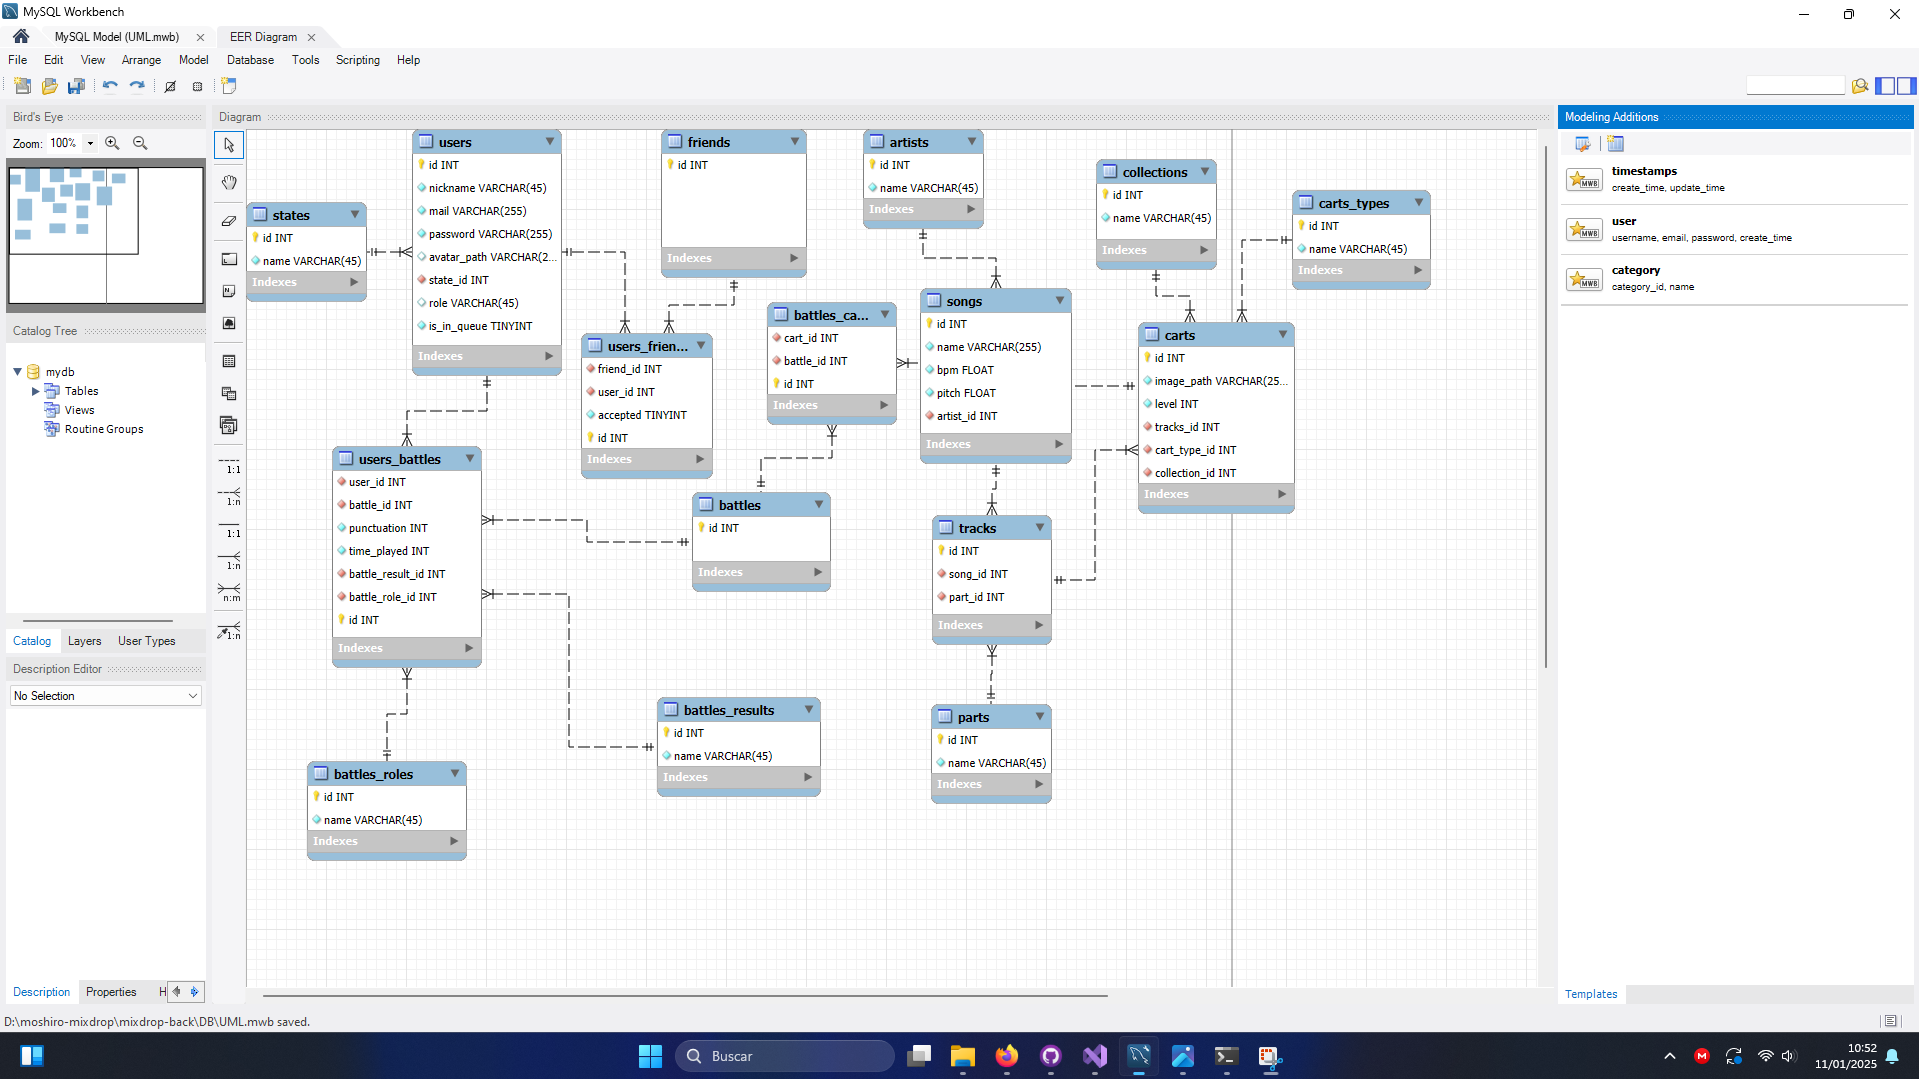
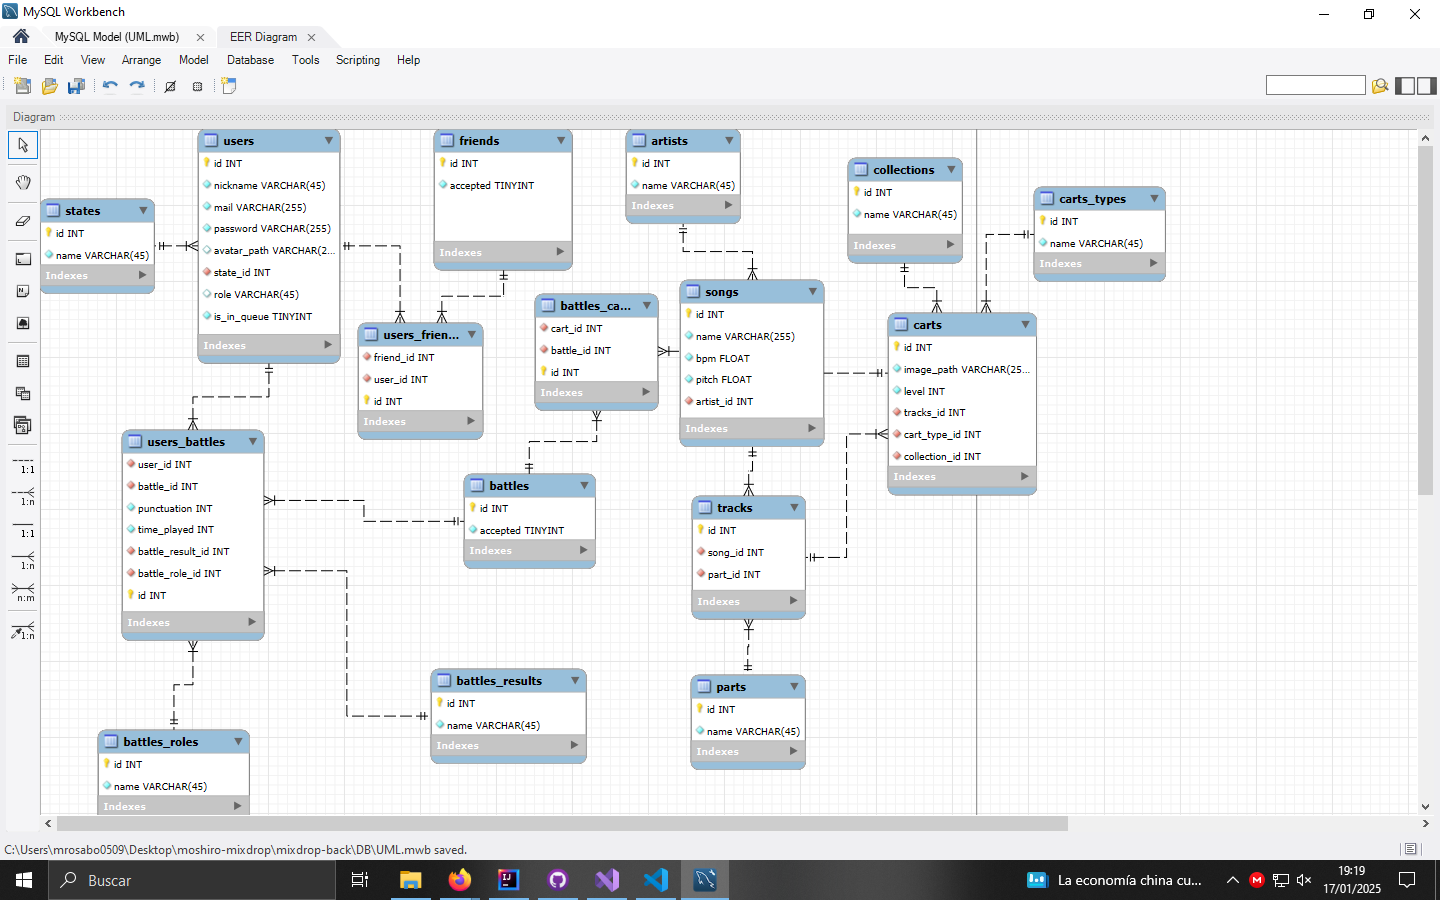
Lógica de front para menú, cambios en BBDD y más
Ahora el WebSocket además notifica cuando un usuario cierra sesión

diff --git a/mixdrop-front/src/app/pages/menu/menu.component.ts b/mixdrop-front/src/app/pages/menu/menu.component.ts
@@ -5,7 +5,11 @@ import { Subscription } from 'rxjs';
 import { MessageType } from '../../models/message-type';
 import { NavbarComponent } from "../../components/navbar/navbar.component";
 import { UserService } from '../../services/user.service';
+import { UserFriend } from '../../models/user-friend';
 import { User } from '../../models/user';
+import { Battle } from '../../models/battle';
+import { UserFriendService } from '../../services/user-friend.service';
+import { BattleService } from '../../services/battle.service';
 
 @Component({
   selector: 'app-menu',
@@ -17,15 +21,24 @@ import { User } from '../../models/user';
 export class MenuComponent implements OnInit, OnDestroy {
   messageReceived$: Subscription | null = null;
   serverResponse: string = '';
+
   totalPlayers = 0;
+  friends: UserFriend[] = []
+  pendingBattles: Battle[] = []
+  battleId : number = 0
   
-  constructor (private webSocketService : WebsocketService, private router: Router, private userService :UserService){}
+  constructor (private webSocketService : WebsocketService, 
+    private router: Router, private userService: UserService, 
+    private userFriendService : UserFriendService,
+    private battleService : BattleService
+  ){}
 
   // TODO: Redirigir al login si no ha iniciado sesión
   ngOnInit(): void 
   {
     // Procesa la respuesta
     this.messageReceived$ = this.webSocketService.messageReceived.subscribe(message => this.processMessage(message))
+    this.askForInfo(1)
   }
 
   processMessage(message : any)
@@ -33,13 +46,49 @@ export class MenuComponent implements OnInit, OnDestroy {
     this.serverResponse = message
     const jsonResponse = JSON.parse(this.serverResponse)
     // En función del tipo de mensaje que he recibido, sé que me han enviado unos datos u otros
+    
+    // Es posible que haya que hacer JSON.parse() otra vez en alguno de los casos
     switch(jsonResponse.messageType)
     {
+      case MessageType.Friend:
+        // Es posible que haya que hacer JSON.parse() otra vez
+        this.friends = jsonResponse.friends
+        break
       case MessageType.Stats:
         this.totalPlayers = jsonResponse.total
         break
+      case MessageType.PendingBattle:
+        this.pendingBattles = jsonResponse.pendingBattles
+        break
+      case MessageType.Play:
+        // TODO: Redirigir a la vista (por ruta se pasa el id de la batalla)
+        alert("*voz de narrador del valorant*")
+        this.battleId = jsonResponse.battleId
+        break
     }
     console.log(jsonResponse)
+  }
+
+  async removeFriend(userFriend : UserFriend)
+  {
+    // En el servidor se llamaría a un método para borrar la amistad, el cual llamaría al socket del otro usuario para notificarle
+    // Para recibir la notificación ya se encarga "processMesage", y de actualizar la lista
+    await this.userFriendService.removeFriendById(userFriend.id)
+  }
+
+  async addFriend(user : User)
+  {
+    // Hago una petición para que cree el amigo, y el back el servidor debería notificar a ambos usuarios enviando la lista de amigos
+    const response = await this.userFriendService.addFriend(user)
+    console.log("Respuesta de agregar al amigo: ", response)
+  }
+
+  async acceptBattle(battle: Battle)
+  {
+    // Aquí actualizaría el estado de la batalla con una petición, que notificaría a todos los usuarios y los llevaría a ambos a la vista de batalla
+    battle.accepted = true
+    const response = await this.battleService.acceptBattle(battle)
+    console.log("Respuesta de aceptar la batalla: ", response)
   }
 
   askForInfo(messageType : MessageType)

diff --git a/mixdrop-front/src/app/services/user-friend.service.ts b/mixdrop-front/src/app/services/user-friend.service.ts
@@ -1,0 +1,20 @@
+import { Injectable } from '@angular/core';
+import { User } from '../models/user';
+import { ApiService } from './api.service';
+
+@Injectable({
+  providedIn: 'root'
+})
+export class UserFriendService {
+
+  constructor(private api: ApiService) { }
+
+  async addFriend(user : User): Promise<any> {
+    const result = await this.api.post("UserFriend", user)
+    return result
+  }
+
+  async removeFriendById(id : number): Promise<any> {
+    await this.api.delete("UserFriend", id)
+  }
+}

diff --git a/mixdrop-front/src/app/services/battle.service.ts b/mixdrop-front/src/app/services/battle.service.ts
@@ -1,0 +1,17 @@
+import { Injectable } from '@angular/core';
+import { ApiService } from './api.service';
+import { Battle } from '../models/battle';
+
+@Injectable({
+  providedIn: 'root'
+})
+export class BattleService {
+
+  constructor(private api: ApiService) { }
+
+  async acceptBattle(battle : Battle)
+  {
+    const result = await this.api.put("Battle", battle)
+    return result
+  }
+}

diff --git a/mixdrop-front/src/app/components/navbar/navbar.component.css b/mixdrop-front/src/app/components/navbar/navbar.component.css
@@ -11,6 +11,7 @@ span{
 
 #speaker{
     height: 45px;
+    cursor: pointer;
 }
 
 #trophy{
@@ -21,6 +22,7 @@ span{
     vertical-align: middle;
     height: 45px;
     border-radius: 50%;
+    cursor: pointer;
 }
 
 .nav-right{

diff --git a/mixdrop-front/src/app/models/user-friend.ts b/mixdrop-front/src/app/models/user-friend.ts
@@ -1,0 +1,8 @@
+import { Friend } from "./friend";
+import { User } from "./user";
+
+export interface UserFriend {
+    id : number,
+    user : User,
+    friend : Friend
+}

diff --git a/mixdrop-front/src/app/models/message-type.ts b/mixdrop-front/src/app/models/message-type.ts
@@ -1,5 +1,6 @@
 export enum MessageType {
     Friend,
     Stats,
-    Play
+    Play,
+    PendingBattle
 }

diff --git a/mixdrop-front/src/app/models/friend.ts b/mixdrop-front/src/app/models/friend.ts
@@ -1,0 +1,4 @@
+export interface Friend {
+    id : number,
+    accepted : boolean
+}

diff --git a/mixdrop-front/src/app/models/battle.ts b/mixdrop-front/src/app/models/battle.ts
@@ -1,0 +1,4 @@
+export interface Battle {
+    id: number,
+    accepted : boolean
+}

diff --git a/mixdrop-back/mixdrop-back/Services/WebSocketHandler.cs b/mixdrop-back/mixdrop-back/Services/WebSocketHandler.cs
@@ -30,11 +30,39 @@ public class WebSocketHandler
             socket.Socket = webSocket;
         }
 
-        await NotifyUsers();
+        Dictionary<object, object> dict = new Dictionary<object, object>
+        {
+            { "messageType", MessageType.Stats },
+            { "total", Total }
+        };
+
+        await SendStatsMessage();
         await socket.ProcessWebSocket();
     }
 
-    private static async Task NotifyUsers()
+    public static async Task RemoveSocket(int userId)
+    {
+        var userSocket = USER_SOCKETS.FirstOrDefault(userSocket=>userSocket.UserId == userId);
+        if(userSocket != null)
+        {
+            USER_SOCKETS.Remove(userSocket);
+            Total -= 1;
+
+            await SendStatsMessage();
+        }
+    }
+
+    private static async Task NotifyUsers(string jsonToSend)
+    {
+
+        foreach (var userSocket in USER_SOCKETS)
+        {
+            if(userSocket.Socket.State == WebSocketState.Open) await userSocket.SendAsync(jsonToSend);
+        }
+    }
+
+    // Esto habrá que ponerlo en otro archivo
+    public static async Task SendStatsMessage()
     {
         Dictionary<object, object> dict = new Dictionary<object, object>
         {
@@ -42,11 +70,6 @@ public class WebSocketHandler
             { "total", Total }
         };
 
-        string jsonToSend = JsonSerializer.Serialize(dict);
-
-        foreach (var userSocket in USER_SOCKETS)
-        {
-            if(userSocket.Socket.State == WebSocketState.Open) await userSocket.SendAsync(jsonToSend);
-        }
+        await NotifyUsers(JsonSerializer.Serialize(dict));
     }
 }

diff --git a/mixdrop-back/mixdrop-back/Services/UserService.cs b/mixdrop-back/mixdrop-back/Services/UserService.cs
@@ -15,17 +15,14 @@ namespace mixdrop_back.Services;
 public class UserService
 {
     private readonly UnitOfWork _unitOfWork;
-    private readonly TokenValidationParameters _tokenParameters;
     private readonly UserMapper _userMapper;
 
     Regex emailRegex = new(@"^([\w\.-]+)@([\w-]+)((\.(\w){2,3})+)$");
 
-    public UserService(UnitOfWork unitOfWork, IOptionsMonitor<JwtBearerOptions> jwtOptions, UserMapper userMapper)
+    public UserService(UnitOfWork unitOfWork, UserMapper userMapper)
     {
         _unitOfWork = unitOfWork;
         _userMapper = userMapper;
-        _tokenParameters = jwtOptions.Get(JwtBearerDefaults.AuthenticationScheme)
-                .TokenValidationParameters;
     }
 
 
@@ -67,6 +64,8 @@ public class UserService
         await _unitOfWork.SaveAsync();
 
         Console.WriteLine("Usuario desconectado: " + existingUser.Nickname);
+
+        await WebSocketHandler.RemoveSocket(userId);
     }
 
 

diff --git a/mixdrop-back/mixdrop-back/Models/Entities/Battle.cs b/mixdrop-back/mixdrop-back/Models/Entities/Battle.cs
@@ -3,6 +3,7 @@
 public class Battle
 {
     public int Id { get; set; }
+    public bool Accepted { get; set; } = false;
     public ICollection<UserBattle> BattleUsers { get; set; } = new List<UserBattle>();
     public ICollection<BattleCart> BattleCarts { get; set; } = new List<BattleCart>();
 }

diff --git a/mixdrop-back/mixdrop-back/Models/Entities/UserFriend.cs b/mixdrop-back/mixdrop-back/Models/Entities/UserFriend.cs
@@ -5,7 +5,6 @@ public class UserFriend
     public int Id { get; set; }
     public int UserId { get; set; }
     public int FriendId { get; set; }
-    public bool Accepted { get; set; } = false;
     public User User { get; set; }
     public Friend Friend { get; set; }
 }
